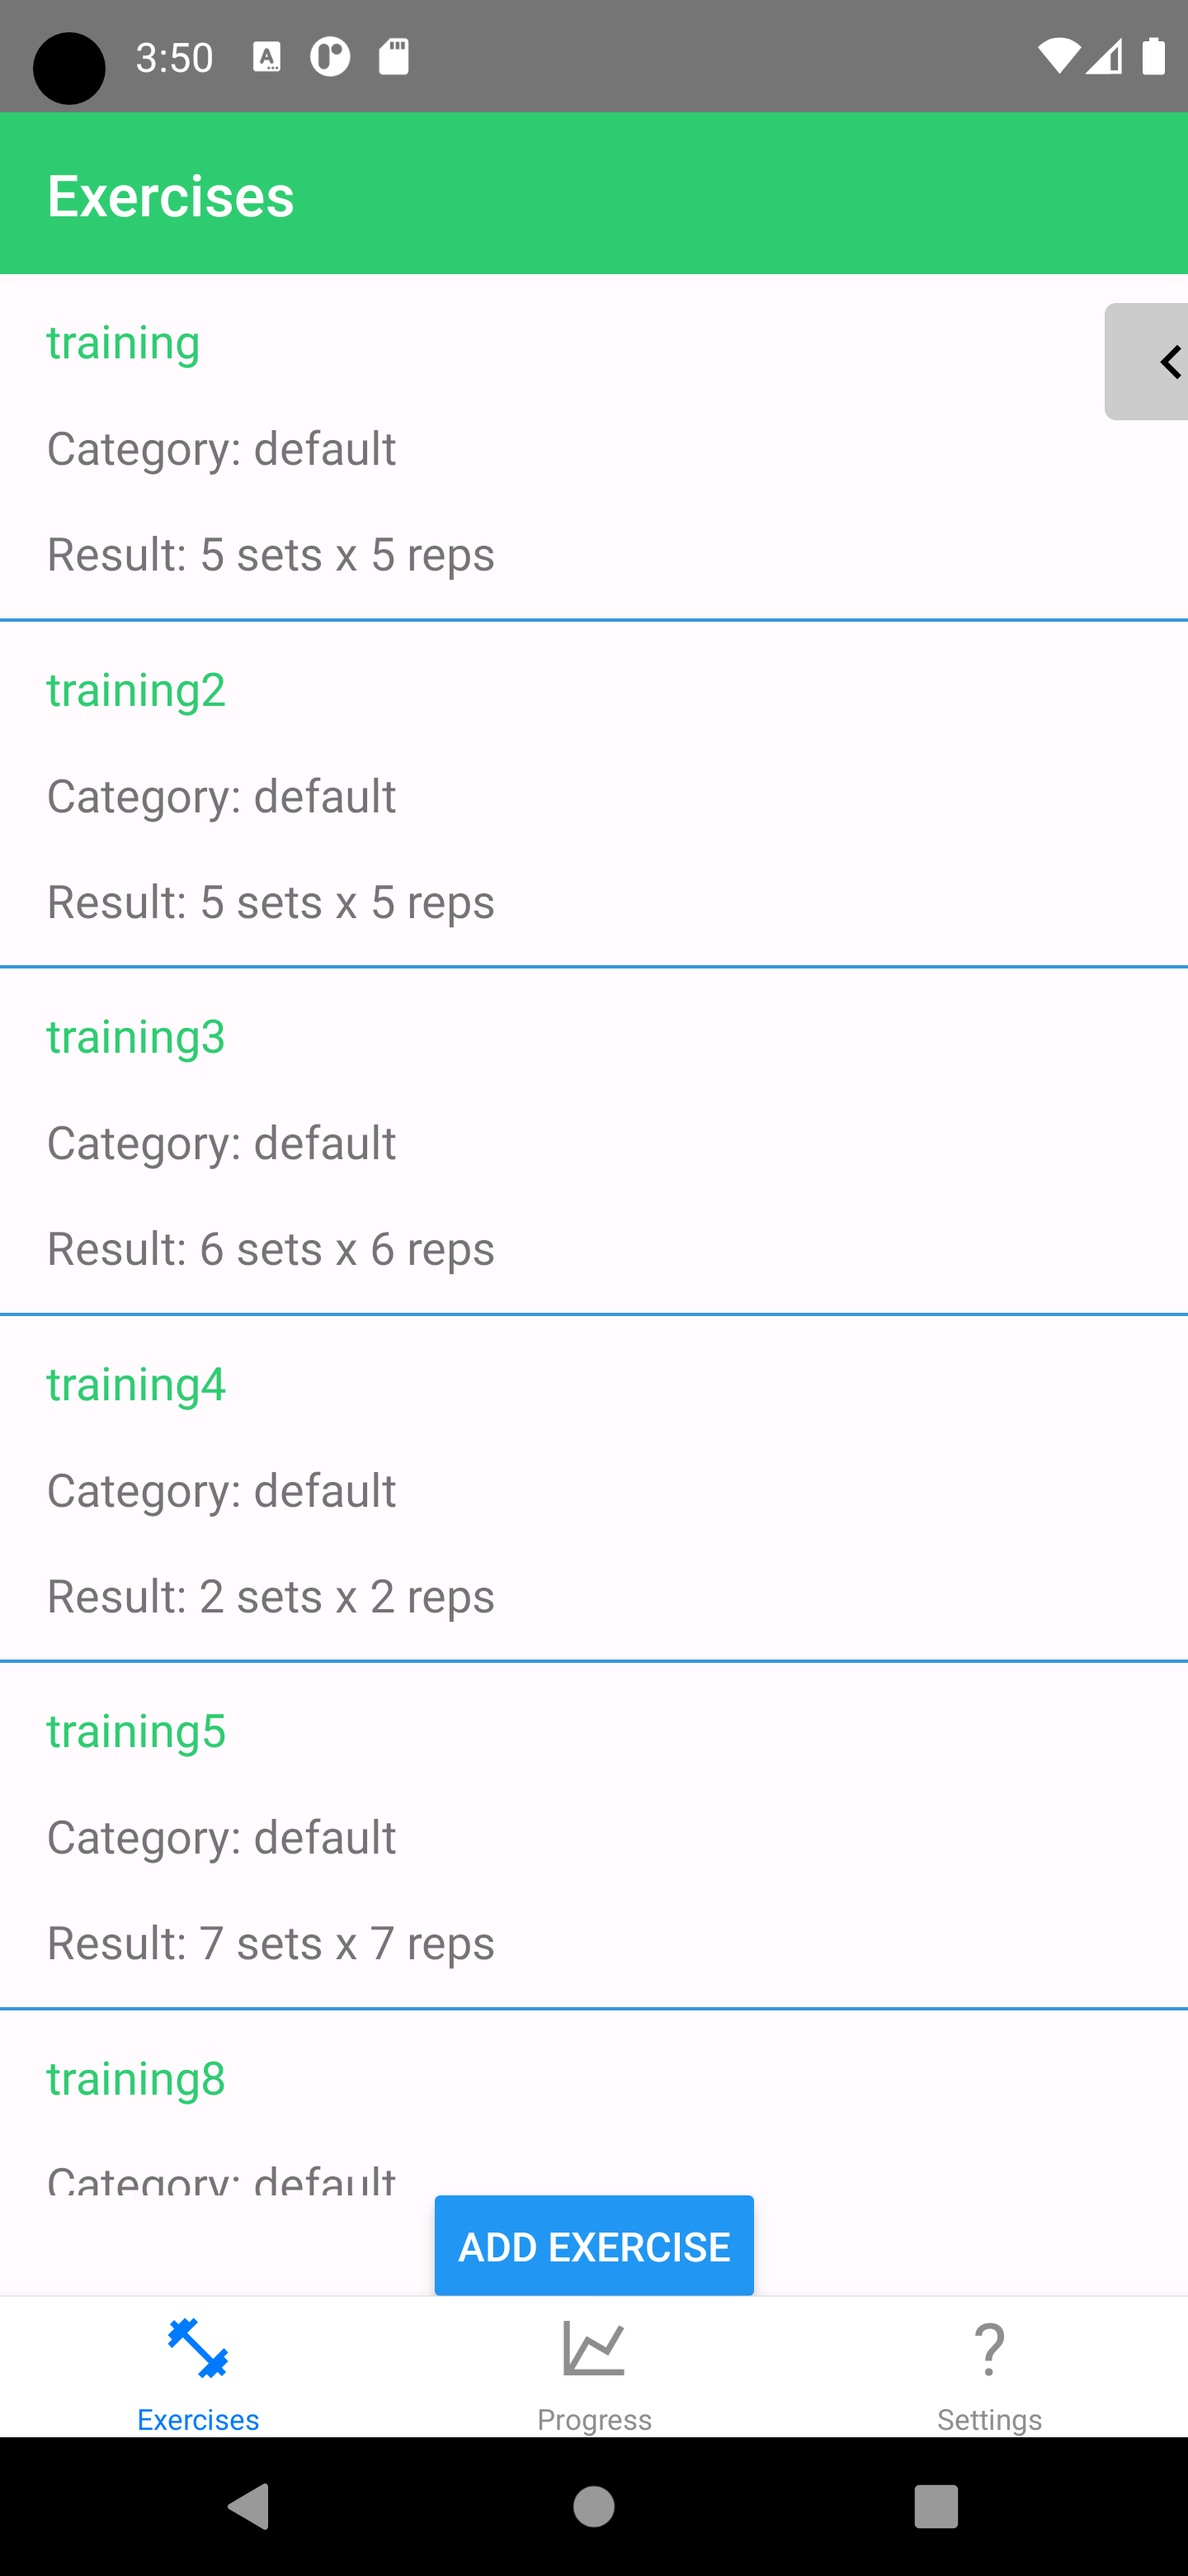
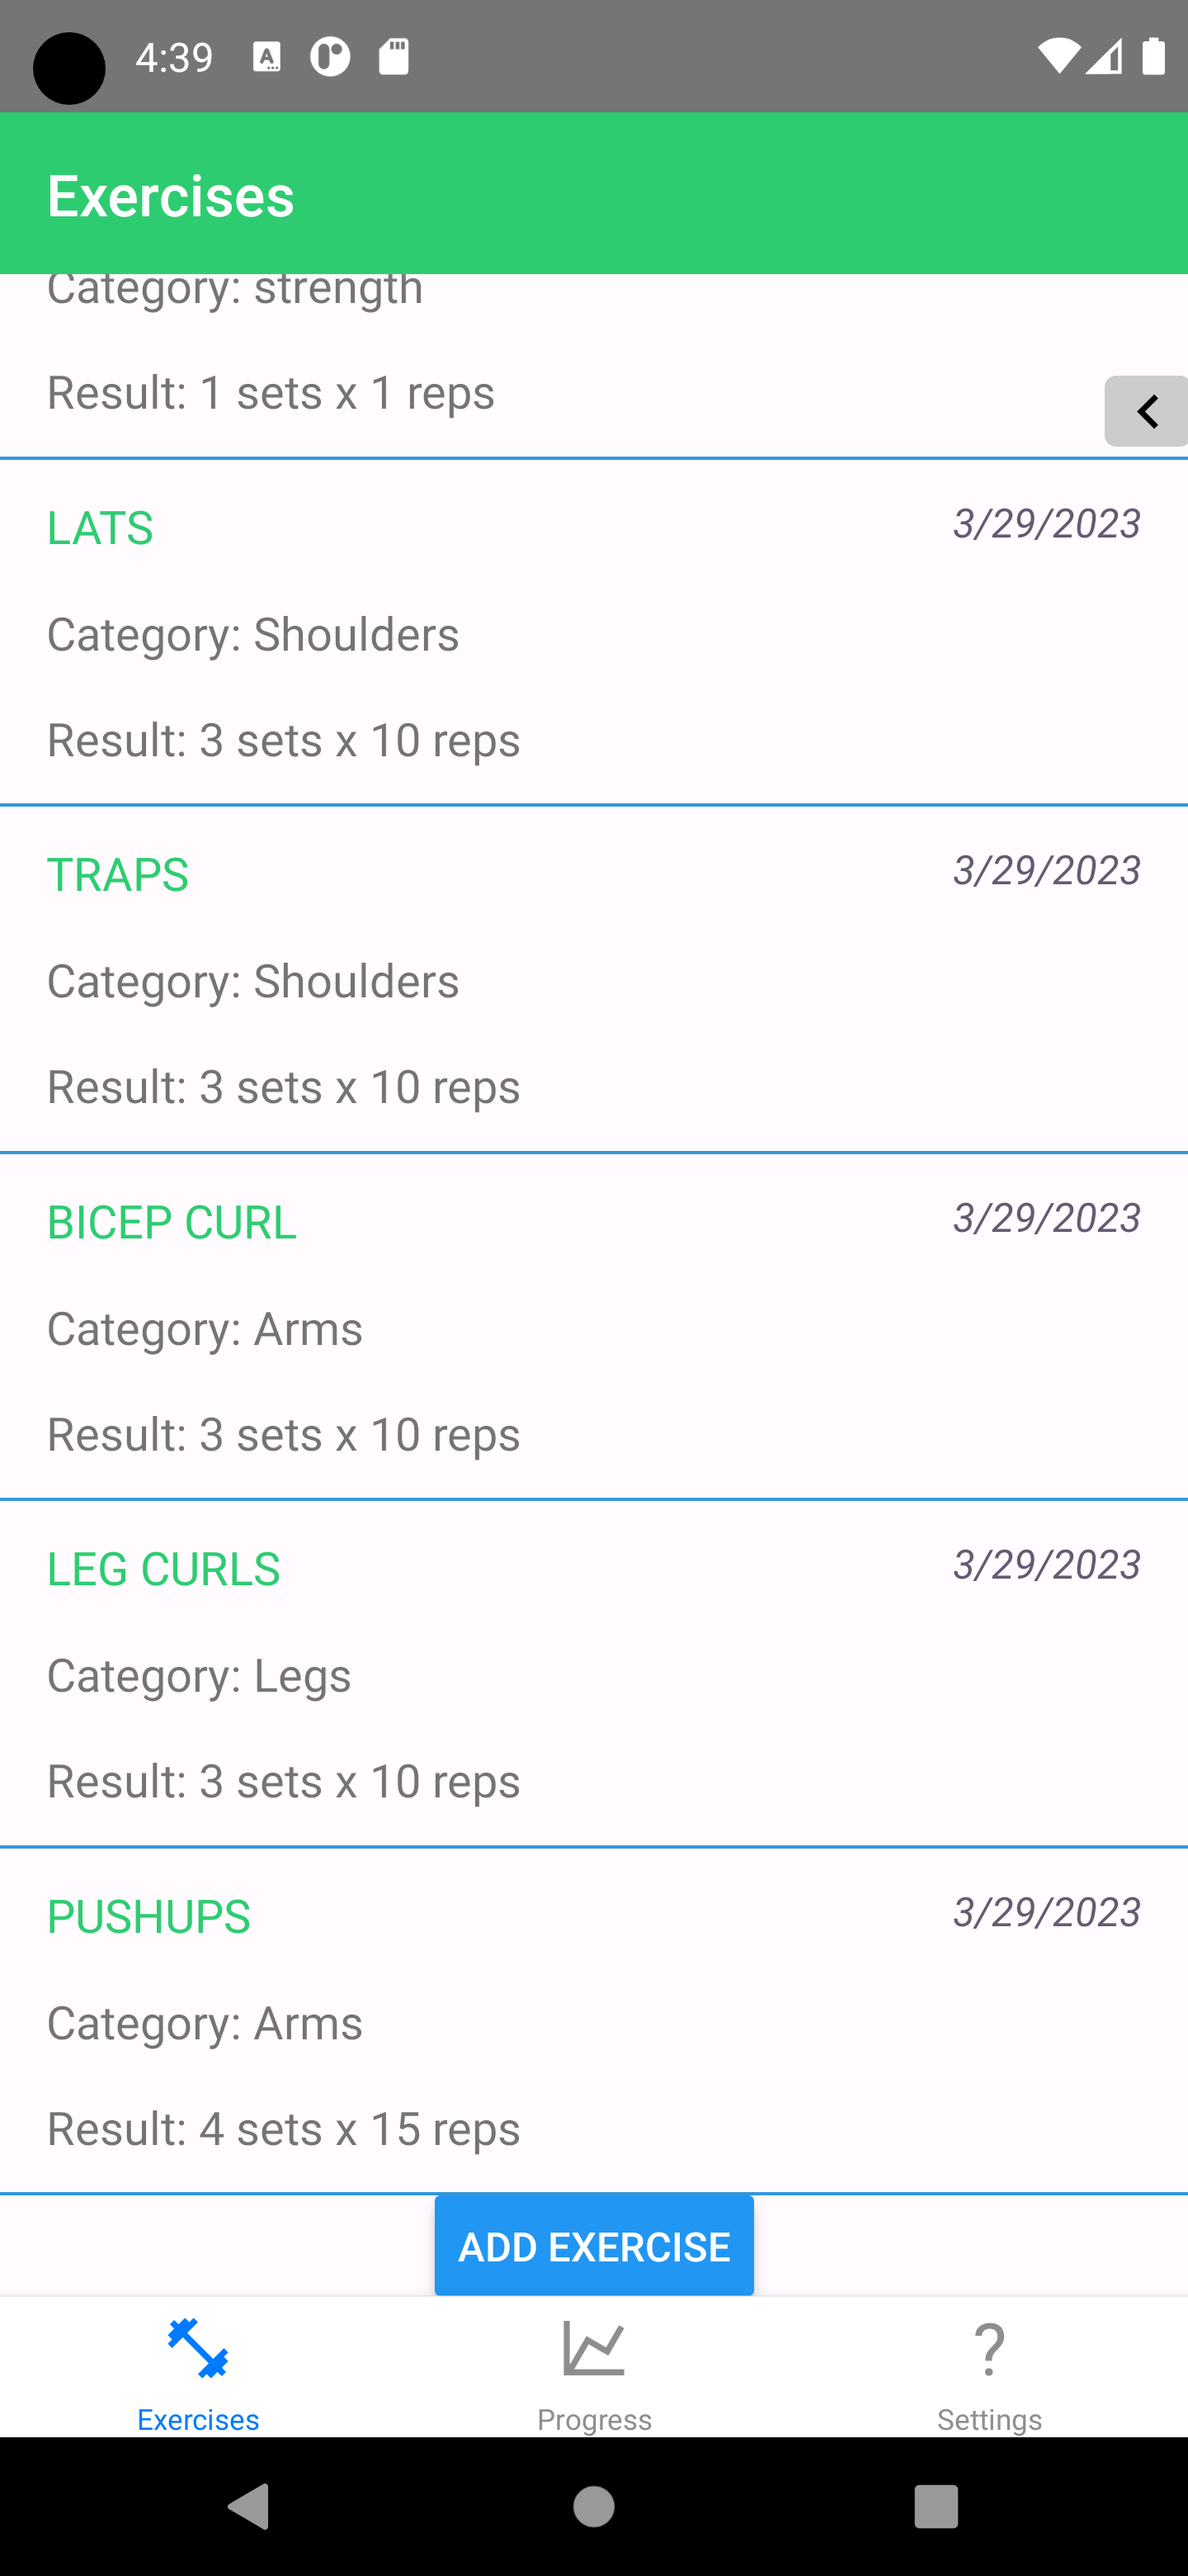
ui adjustments and update of gh pictures

diff --git a/src/screens/SideBar.tsx b/src/screens/SideBar.tsx
@@ -61,7 +61,7 @@ export const SideBar: React.FC<SideBarProps> = ({categories, onFilterChange}) =>
         <TouchableOpacity
           style={{...styles.sidebarEdge, zIndex: sidebarVisible ? 1001 : -1}}
           onPress={() => (sidebarVisible ? handleCloseSidebar() : handleOpenSidebar())}>
-          <MaterialCommunityIcons name={sidebarVisible ? "chevron-left" : "chevron-right"} size={24} color="#000" />
+          <MaterialCommunityIcons adjustsFontSizeToFit name={sidebarVisible ? "chevron-left" : "chevron-right"} size={24} color="#000" />
         </TouchableOpacity>
       </View>
       {/* Add your Sidebar content here */}
@@ -109,10 +109,9 @@ const styles = StyleSheet.create({
   },
   sidebarEdgeIndicator: {
     position: "absolute",
-    top: 10,
+    top: 35,
     left: -SidebarVisibleWidth,
     zIndex: 1000,
-    padding: 8,
     backgroundColor: "#ccc", // You can change this color to match your design
     borderRadius: 4,
   },

diff --git a/src/screens/ExerciseList.tsx b/src/screens/ExerciseList.tsx
@@ -54,7 +54,10 @@ const ExerciseList: React.FC<Props> = ({ navigation }) => {
         onPress={() => navigation.navigate('Details', { exerciseId: item.id })}
       >
         <View style={{ flexDirection: 'column', width: '100%', gap: 15 }}>
-          <Text style={{ ...styles.itemText, color: colors.accent }}>{item.name}</Text>
+          <View style={{justifyContent: 'space-between', flexDirection: 'row'}}>
+          <Text style={{ ...styles.itemText, color: colors.accent }}>{item.name.toUpperCase()}</Text>
+          <Text style={{fontStyle: 'italic', color: colors.secondary}}>{item.date.toLocaleDateString()}</Text>
+          </View>
           <Text style={styles.itemText}>Category: {item.category}</Text>
           <Text style={styles.itemText}>
             Result: {item.sets} sets x {item.reps} reps

diff --git a/src/components/NumberInput.tsx b/src/components/NumberInput.tsx
@@ -39,7 +39,7 @@ const NumberInput = ({value = 0, onChange}: NumberInputProps) => {
       <View style={styles.borderedFlatList}>
       <View style={{ width: 150, overflow: "hidden"}}>
         <FlatList
-          data={Array.from({ length: 101 }, (_, i) => i)}
+          data={Array.from({ length: 31 }, (_, i) => i)}
           renderItem={renderItem}
           keyExtractor={(item) => item.toString()}
           horizontal

diff --git a/src/screens/AddExercise/CategoryInput.tsx b/src/screens/AddExercise/CategoryInput.tsx
@@ -45,6 +45,7 @@ const styles = StyleSheet.create({
   pickerDisplay: {
     position: "absolute",
     right: 20,
+    padding: 10,
     zIndex: 2,
   },
 });
